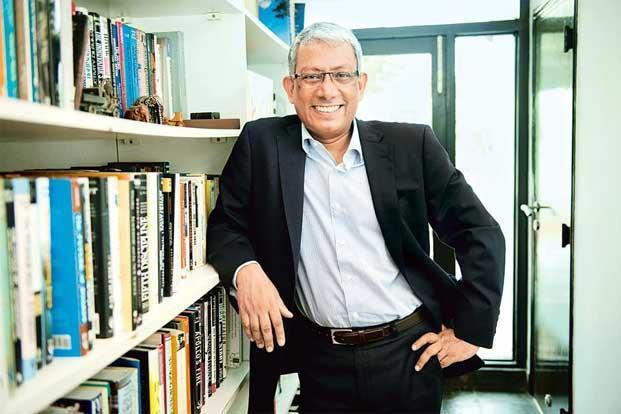
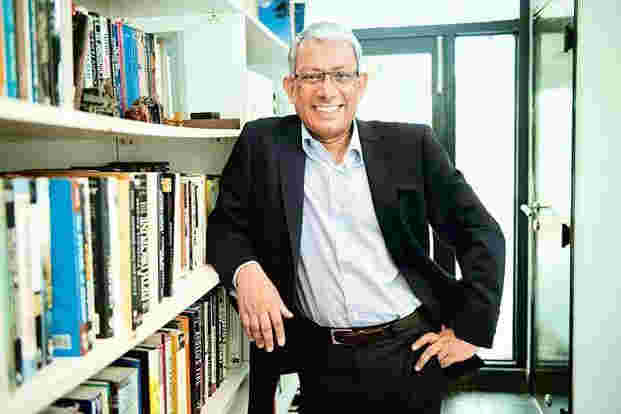
lecture image size reduced

diff --git a/projects/main/css/lectures-animation.css b/projects/main/css/lectures-animation.css
@@ -203,7 +203,7 @@ div.animated-speaker#vanitha-narayanan {
 }
 
 /* line 154, ../sass/lectures-animation.scss */
-div.animated-speaker#vijay-govindrajan {
+div.animated-speaker#vijay-govindarajan {
   opacity: 0;
   -webkit-transform: rotateX(-90deg);
   -webkit-transform-origin: 50% 0%;
@@ -441,7 +441,7 @@ div.unanimated-speaker#vanitha-narayanan {
 }
 
 /* line 197, ../sass/lectures-animation.scss */
-div.unanimated-speaker#vijay-govindrajan {
+div.unanimated-speaker#vijay-govindarajan {
   opacity: 0;
   -webkit-transform: rotateX(-90deg);
   -webkit-transform-origin: 50% 0%;

diff --git a/projects/main/sass/lectures-animation.scss b/projects/main/sass/lectures-animation.scss
@@ -151,7 +151,7 @@ div.animated-speaker#sunil-kumar{
 div.animated-speaker#vanitha-narayanan{
 	@include flip_top(1,1);
 }
-div.animated-speaker#vijay-govindrajan{
+div.animated-speaker#vijay-govindarajan{
 	@include flip_top(4,1);
 }
 div.animated-speaker#vinita-bali{
@@ -194,7 +194,7 @@ div.unanimated-speaker#sunil-kumar{
 div.unanimated-speaker#vanitha-narayanan{
 	@include flip_top(11,0);
 }
-div.unanimated-speaker#vijay-govindrajan{
+div.unanimated-speaker#vijay-govindarajan{
 	@include flip_top(13,0);
 }
 div.unanimated-speaker#vinita-bali{

diff --git a/projects/main/php/pages/lectures.php b/projects/main/php/pages/lectures.php
@@ -117,7 +117,7 @@
 		$speakers = array( "ajit balakrishnan", "archana sharma", "arogyaswami paulraj",
                 "ela bhatt", "gurtej sandhu", "partha mitra", "pawan sinha", "rajeeva karandikar",
                 "ravi venkatesan", "stephen wolfram", "sunil kumar", "vanitha narayanan",
-                "vijay govindrajan", "vinita bali"
+                "vijay govindarajan", "vinita bali"
             );
 		$speaker_count = count($speakers);
 	?>
@@ -126,7 +126,7 @@
 			<?php 	if($i<$speaker_count/2) {?>
 		        <div class="speaker">
 					<div class="animated-speaker" id="<?php echo str_replace(' ', '-', $speakers[$i]) ?>"
-			        	style="background-image:url(../../img/lectures/<?php echo str_replace(' ', '%20', $speakers[$i]); ?>.jpg)">
+			        	style="background-image:url(../../img/lectures/small/<?php echo str_replace(' ', '%20', $speakers[$i]); ?>.jpg)">
 			            <a href="../pages/speaker.php?name=<?php echo urlencode($speakers[$i]) ?>">
 							<span class='vertical-table'>
 							    <span class='vertical-table-cell text-center'>
@@ -175,7 +175,7 @@
 			<?php 	if($i<$speaker_count/2) {?>
 		        <div class="speaker col-sm-6">
 					<div class="unanimated-speaker" id="<?php echo str_replace(' ', '-', $speakers[$i]) ?>"
-			        	style="background-image:url(../../img/lectures/<?php echo str_replace(' ', '%20', $speakers[$i]); ?>.jpg)">
+			        	style="background-image:url(../../img/lectures/small/<?php echo str_replace(' ', '%20', $speakers[$i]); ?>.jpg)">
 			            <a href="../pages/speaker.php?name=<?php echo urlencode($speakers[$i]) ?>">
 							<span class='vertical-table'>
 							    <span class='vertical-table-cell text-center'>

diff --git a/projects/main/php/pages/speaker.php b/projects/main/php/pages/speaker.php
@@ -6,7 +6,7 @@
             $speakers = array( "ajit balakrishnan", "archana sharma", "arogyaswami paulraj",
                 "ela bhatt", "gurtej sandhu", "partha mitra", "pawan sinha", "rajeeva karandikar",
                 "ravi venkatesan", "stephen wolfram", "sunil kumar", "vanitha narayanan",
-                "vijay govindrajan", "vinita bali"
+                "vijay govindarajan", "vinita bali"
             );
 
 			if ( isset($_REQUEST['name']) ) {
@@ -193,7 +193,7 @@
 												<?php echo substr($speakers[$speaker_i],strpos($speakers[$speaker_i], ' ')); ?>
 											</span>
                                     	</span>
-                                        <div class="speaker-image" style="width : 100%; background: url(../../img/lectures/<?php echo str_replace(' ', '%20', $speakers[$speaker_i]); ?>.jpg) no-repeat center center; background-size: cover;">
+                                        <div class="speaker-image" style="width : 100%; background: url(../../img/lectures/small/<?php echo str_replace(' ', '%20', $speakers[$speaker_i]); ?>.jpg) no-repeat center center; background-size: cover;">
                                         </div>
                                     </div>
                                 </a>
